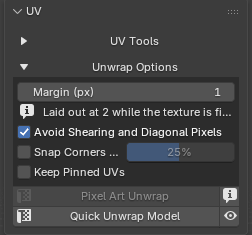
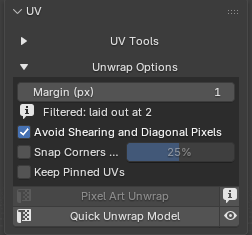
Unwrap Options: the margin label is 'Filtered: laid out at 2' now, and its shot retaken

Changed region(s): [[0.1667, 0.4468, 0.9167, 0.5064]]

diff --git a/texture-filtering.rst b/texture-filtering.rst
@@ -70,7 +70,7 @@ The margin for a filtered texture
 
 * **At least 2 texels between the islands** for a filtered texture: each island needs a ring of its own. ``1`` (the default) is plenty for ``Closest``.
 * **Picking** ``Linear`` **or** ``N64 (3 Point)`` **raises** ``Margin (px)`` **to** ``4``, so the seams stay hidden from far away too (a filtered texture is mipmapped, in Blender and in the game engines). It never lowers it, and you can still type your own.
-* **Under 2, the unwrap lays out at 2 anyway** while the texture is filtered, and ``Unwrap Options`` says so under ``Margin (px)``: ``Laid out at 2 while the texture is filtered``. The report too (``Cube: 16 px/m on the 64x64 texture T_Cube (margin 2 for Linear filtering)``).
+* **Under 2, the unwrap lays out at 2 anyway** while the texture is filtered, and ``Unwrap Options`` says so under ``Margin (px)``: ``Filtered: laid out at 2``. The report too (``Cube: 16 px/m on the 64x64 texture T_Cube (margin 2 for Linear filtering)``).
 
   .. image:: _static/images/v2/unwrap-options-filtered-margin.png
 

diff --git a/uv-tools.rst b/uv-tools.rst
@@ -173,7 +173,7 @@ Unwrap Options
 
 What ``Pixel Art Unwrap`` and ``Quick Unwrap Model`` do (also followed by ``Apply Texel Density``, ``Add 1m Cube`` and the canvas wizard). Saved with the .blend.
 
-* ``Margin (px)`` (``1``): texels between islands, whatever the texture size. **A filtered texture needs at least 2**: picking ``Linear`` or ``N64 (3 Point)`` raises it to ``4``, and under 2 it says ``Laid out at 2 while the texture is filtered`` (see :ref:`filtered-margin`).
+* ``Margin (px)`` (``1``): texels between islands, whatever the texture size. **A filtered texture needs at least 2**: picking ``Linear`` or ``N64 (3 Point)`` raises it to ``4``, and under 2 it says ``Filtered: laid out at 2`` (see :ref:`filtered-margin`).
 
   .. image:: _static/images/v2/unwrap-options-filtered-margin.png
 
